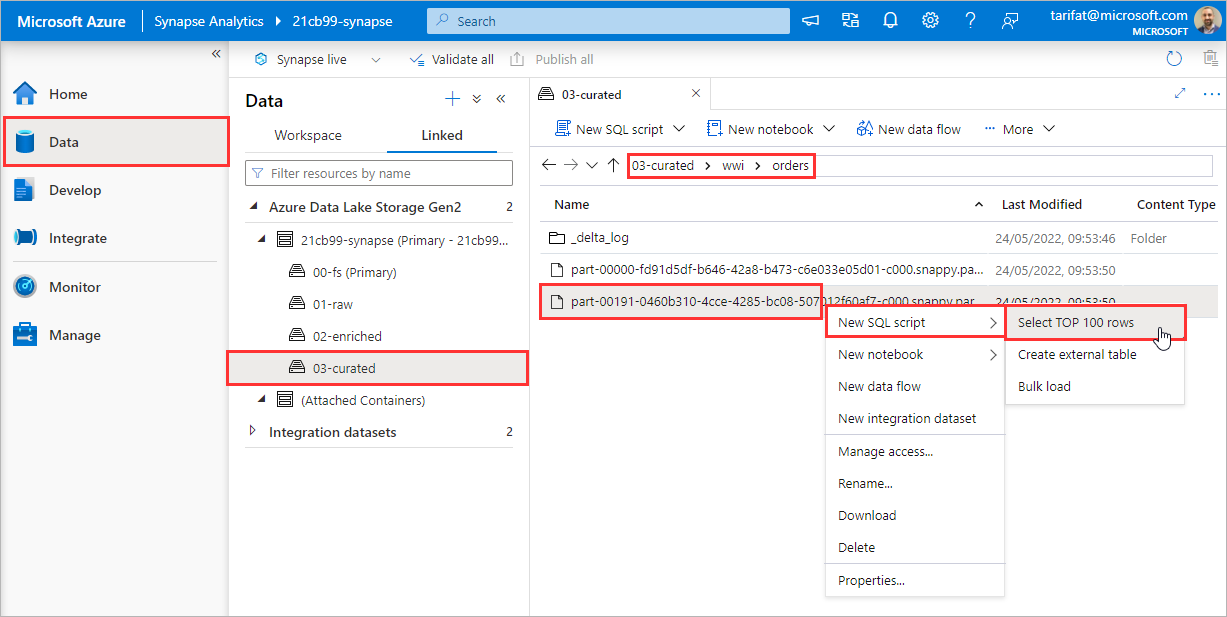
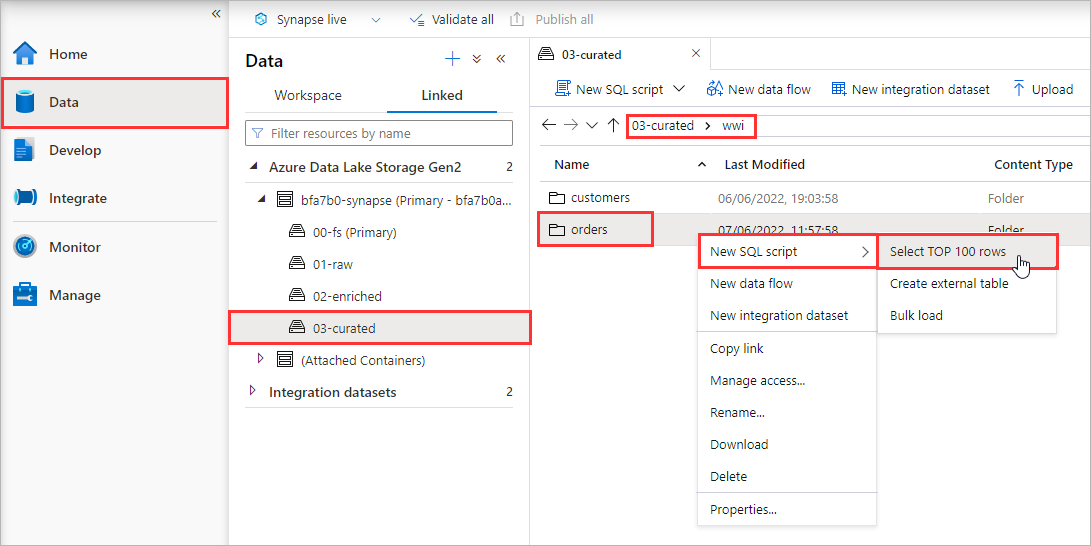
module02b

diff --git a/modules/module02b.md b/modules/module02b.md
@@ -2,6 +2,10 @@
 
 [< Previous Module](../modules/module02a.md) - **[Home](../README.md)** - [Next Module >](../modules/module02c.md)
 
+## :stopwatch: Estimated Duration
+
+20 minutes
+
 ## :thinking: Prerequisites
 
 - [x] Lab environment deployed
@@ -476,18 +480,34 @@ To test that our pipeline is working correctly, we will trigger a manual run usi
 
     ![ALT](../images/module02b/083.png)
 
-4. Navigate to the **Data** hub, browse the data lake folder structure under the **Linked tab** to `03-curated/wwi/orders`, right-click one of the parquet files and select **New SQL Script > Select TOP 100 rows**
+4. Navigate to the **Data** hub, browse the data lake folder structure to `03-curated > wwi`, right-click the folder `orders`, and select **New SQL Script > Select TOP 100 rows**
 
     ![ALT](../images/module02b/084.png)
 
-5. Modify the **OPENROWSET** function to remove the file name from the **BULK** path, change the **FORMAT** to **DELTA**, and click **Run**
+5. Set the **File type** to **Delta format** and click **Apply**
 
     ![ALT](../images/module02b/085.png)
+
+6. Click **Run**
+
+    ![ALT](../images/module02b/086.png)
 
 <div align="right"><a href="#module-02b---incremental-load-fact">↥ back to top</a></div>
 
 ## :tada: Summary
 
 You have successfully setup a pipeline to incrementally load the fact table (Orders) using the Delta Lake format.
+
+## :white_check_mark: Results
+
+Azure Synapse Analytics
+
+- [x] 1 x Pipeline (O2 - pipelineFactIncrementalLoad)
+- [x] 1 x Data flow (dataFlowFactIncrementalLoad)
+
+Azure Data Lake Storage Gen2
+
+- [x] 1 x Delta log file (03-curated/wwi/orders/_delta_log)
+- [x] 2 x Parquet files (03-curated/wwi/orders)
 
 [Continue >](../modules/module02c.md)

diff --git a/modules/module02a.md b/modules/module02a.md
@@ -466,7 +466,7 @@ In this step, we are going to add a **Stored procedure** activity that will upda
 
 ## :tada: Summary
 
-You have successfully setup a pipeline that can check for changes in the source system by referencing the last high waterman, and copy those changes to the raw layer within your data lake.
+You have successfully setup a pipeline that can check for changes in the source system by referencing the last high watermark, and copy those changes to the raw layer within your data lake.
 
 ## :white_check_mark: Results
 
